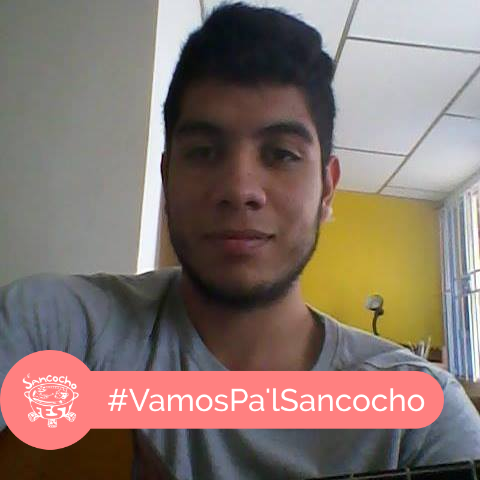
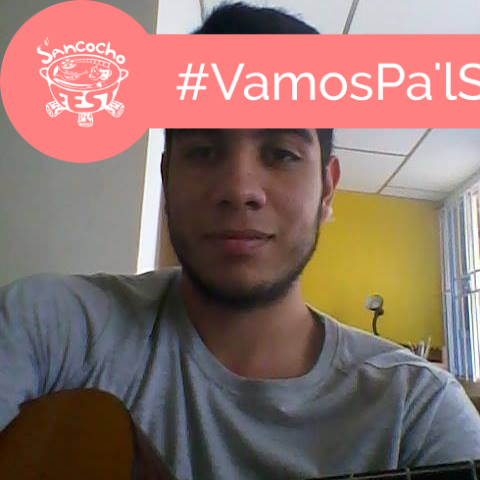
retiro fuente, reemplazo por helevtica(web font)

diff --git a/web/js/app.js b/web/js/app.js
@@ -9,7 +9,8 @@ window.onload = function() {
   canvas.setHeight(480);
   canvas.setWidth(480);
   var kit;
-  var button = document.getElementById('post');
+  var button = document.getElementById('upload');
+  var name = document.getElementById('name');
   var friendCache = {};
 
 
@@ -26,7 +27,7 @@ window.onload = function() {
   {
     fabric.Image.fromURL( url, function(oImg) {
       canvas.add(oImg);
-      addSticker('img/sticker.png');
+      addSticker('img/sticker.png', {scale:0.6});
     },{ crossOrigin: 'anonymous' });
   }
  
@@ -34,7 +35,7 @@ window.onload = function() {
   function addSticker(url)
   {
     fabric.Image.fromURL( url, function(oImg) {
-      canvas.add(oImg.set({ top: 350,}).scale(0.6));
+      canvas.add(oImg.set({ top: 0,}).scale(0.98));
        canvasToImage();
     },{ crossOrigin: 'anonymous' });
   }
@@ -134,7 +135,7 @@ window.onload = function() {
 
   function getMe(callback)
   {
-    FB.api("/me?fields=name,picture.width(360)", function(response){
+    FB.api("/me?fields=name,picture.width(480)", function(response){
       if( !response.error )
       {
 
@@ -142,6 +143,7 @@ window.onload = function() {
         console.log(response);
         callback(); 
         addProfilePicture(response.picture.data.url);
+        name.innerHTML = response.name;
 
       } else 
       {

diff --git a/web/index.php b/web/index.php
@@ -1,12 +1,13 @@
 <html>
 	<head>
 		<meta charset="utf-8">
-		<link href='https://fonts.googleapis.com/css?family=Open+Sans' rel='stylesheet' type='text/css'>
+		
 		<style>
 		*
 		{
-		font-family: 'Open Sans', sans-serif;
-		color:#333;	
+		font-family: helvetica, arial, sans-serif;
+		
+		font-weight: 500;
 		}
 		canvas, .center
 		{
@@ -17,26 +18,24 @@
 
 		button
 		{
-			
+			width: 48%;
 			margin:12px;
 			padding: 12px;
-			font-size: 15px;
-			background: transparent;
+			font-size: 12px;
+			background:#3a5795;
 			border:1px #2196f3 solid;
-			color:#2196f3;
-			border-radius: 8px;
+			color:#fff;
+			border-radius: 5px;
 			cursor: pointer;
 			transition:1s all;
 			font-weight: bold;
 		}
-		button:hover
+		#name
 		{
-			background: #2196f3;
-			color:#fff;
+			color: #344;
 		}
-		h1
-		{
-			color:#3f51b5
+		h5{
+			color:#616161;
 		}
 	
 		</style>
@@ -44,10 +43,12 @@
 
 	<body>
 		<div class="center">
-			<h1>¡¡ Vamos Pa'l Sancocho 2016 !!</h1>
-			<h3>Adorna tu Foto de perfil en invita a tus amigos</h3>
+			<h2>¡¡ Vamos Pa'l Sancocho 2016 !!</h2>
+			<h5><span id="name"></span>, Adorna tu Foto de perfil e invita a tus amigos, 
+			Que nos vamos pal Sancocho Fest 2016 !!!!
+			</h5>
 			<canvas id="c"></canvas>
-			<button id="subir">Publicar en mi perfil</button>
+			<button id="upload">Publicar en mi perfil</button>
 		</div>
 
 	<script type="text/javascript" src="lib/minAjax.js"></script>
